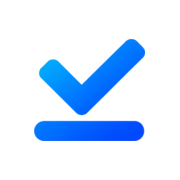
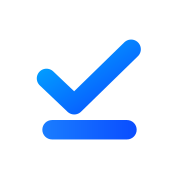
Ícone da aba em vetor (nítido em qualquer tela)
Claude-Session: https://claude.ai/code/session_01KfYLfnBX8urVjsqwHUXQNR

diff --git a/index.html b/index.html
@@ -1,4 +1,4 @@
-<!doctype html><html lang="pt-BR"><head><meta charset="utf-8"><meta name="viewport" content="width=device-width,initial-scale=1,viewport-fit=cover"><meta name="description" content="Tás Seguro: corretora de seguro de moto e carro. Peça sua cotação."><style>:root{padding-top:env(safe-area-inset-top,0px);padding-bottom:env(safe-area-inset-bottom,0px)}body{margin:0}img{max-width:100%}[hidden]{display:none!important}</style><link rel="icon" href="/favicon.ico" sizes="any"><link rel="icon" type="image/png" sizes="32x32" href="/icones/favicon-32.png"><link rel="apple-touch-icon" href="/icones/apple-touch-icon.png"><link rel="manifest" href="/site.webmanifest"><meta name="theme-color" content="#05081a"><meta property="og:type" content="website"><meta property="og:site_name" content="Tás Seguro"><meta property="og:title" content="Tás Seguro · Cotação rápida, sem papelada"><meta property="og:description" content="Corretora de seguros em Recife. Seguro de moto, carro e muito mais. Peça sua cotação."><meta property="og:url" content="https://tasseguro.com.br/"><meta property="og:image" content="https://tasseguro.com.br/icones/compartilhar.png"><meta property="og:image:width" content="1200"><meta property="og:image:height" content="630"><meta name="twitter:card" content="summary_large_image"></head><body><title>Tás Seguro</title>
+<!doctype html><html lang="pt-BR"><head><meta charset="utf-8"><meta name="viewport" content="width=device-width,initial-scale=1,viewport-fit=cover"><meta name="description" content="Tás Seguro: corretora de seguro de moto e carro. Peça sua cotação."><style>:root{padding-top:env(safe-area-inset-top,0px);padding-bottom:env(safe-area-inset-bottom,0px)}body{margin:0}img{max-width:100%}[hidden]{display:none!important}</style><link rel="icon" href="/favicon.ico" sizes="any"><link rel="icon" type="image/svg+xml" href="/icones/favicon.svg"><link rel="apple-touch-icon" href="/icones/apple-touch-icon.png"><link rel="manifest" href="/site.webmanifest"><meta name="theme-color" content="#05081a"><meta property="og:type" content="website"><meta property="og:site_name" content="Tás Seguro"><meta property="og:title" content="Tás Seguro · Cotação rápida, sem papelada"><meta property="og:description" content="Corretora de seguros em Recife. Seguro de moto, carro e muito mais. Peça sua cotação."><meta property="og:url" content="https://tasseguro.com.br/"><meta property="og:image" content="https://tasseguro.com.br/icones/compartilhar.png"><meta property="og:image:width" content="1200"><meta property="og:image:height" content="630"><meta name="twitter:card" content="summary_large_image"></head><body><title>Tás Seguro</title>
 <meta name="claude:viewport-fit-sides" content="cover">
 <link rel="preconnect" href="https://fonts.googleapis.com">
 <link rel="stylesheet" href="https://fonts.googleapis.com/css2?family=Unbounded:wght@500;700;800;900&family=Figtree:wght@400;500;600;700&display=swap">

diff --git a/admin/index.html b/admin/index.html
@@ -113,7 +113,7 @@ input[type=checkbox]{width:18px;height:18px;accent-color:#3fb4ff;cursor:pointer}
 .conf{margin-top:12px;padding:14px;border-radius:14px;background:rgba(255,90,120,.1);border:1px solid rgba(255,90,120,.45);display:grid;gap:10px}
 .wa{color:var(--glow);font-weight:700;text-decoration:none}
 </style>
-<link rel="icon" href="/favicon.ico" sizes="any"><link rel="icon" type="image/png" sizes="32x32" href="/icones/favicon-32.png"><link rel="apple-touch-icon" href="/icones/apple-touch-icon.png"><link rel="manifest" href="/site.webmanifest"><meta name="theme-color" content="#05081a"></head>
+<link rel="icon" href="/favicon.ico" sizes="any"><link rel="icon" type="image/svg+xml" href="/icones/favicon.svg"><link rel="apple-touch-icon" href="/icones/apple-touch-icon.png"><link rel="manifest" href="/site.webmanifest"><meta name="theme-color" content="#05081a"></head>
 <body>
 
 <section class="login" id="v-login">
